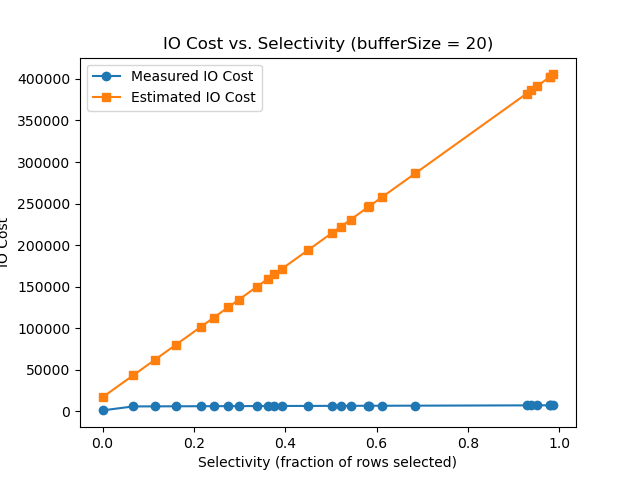
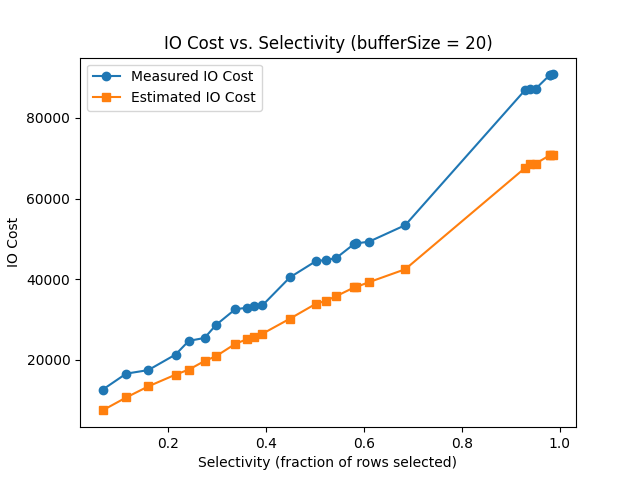
fix: fix estimated I/O

diff --git a/lab3/plot_results.py b/lab3/plot_results.py
@@ -1,17 +1,21 @@
 import pandas as pd
 import matplotlib.pyplot as plt
+from math import ceil
 
 # Read CSV file
 
-def estimated_IO_cost(moviesSelectivity, bufferSize):
+def estimated_IO_cost(moviesSelectivity, join1tuples, bufferSize):
     workedOnSelectivity = 0.111611
     moviesPages = 962
     workedOnPages = 962
     peoplePages = 2858
-    joinPages = workedOnSelectivity * workedOnPages * 49 / 4096
+    join1Pages = ceil(join1tuples * 49 / 4096) # 49 for size of MovieWorkedOnRow
     IOCost = workedOnPages + workedOnSelectivity * workedOnPages + \
-             moviesPages + moviesPages / ((bufferSize - 6) / 2) * workedOnSelectivity * workedOnPages + \
-             moviesSelectivity * moviesPages + moviesSelectivity * moviesPages / ((bufferSize - 6) / 2) * peoplePages
+             moviesSelectivity * moviesPages + moviesSelectivity * moviesPages / ((bufferSize - 6) / 2) * workedOnSelectivity * workedOnPages + \
+             join1Pages / ((bufferSize - 6) / 2) * peoplePages
+    print("WorkedOn Materialization: ", workedOnPages + workedOnSelectivity * workedOnPages)
+    print("Join1: ", moviesSelectivity * moviesPages + moviesSelectivity * moviesPages / ((bufferSize - 6) / 2) * workedOnSelectivity * workedOnPages)
+    print("Join2: ", join1Pages * moviesPages / ((bufferSize - 6) / 2) * peoplePages)
     return IOCost
 
 def plot_results(filename, bufferSize):
@@ -20,7 +24,7 @@ def plot_results(filename, bufferSize):
 
     # Plot execution times
     measured_IO_cost = df['IOCount']
-    estimated_IO_costs = [estimated_IO_cost(selectivity, bufferSize) for selectivity in df['selectivity']]
+    estimated_IO_costs = [estimated_IO_cost(selectivity, join1tuples, bufferSize) for selectivity, join1tuples in zip(df['selectivity'], df['join1tuples'])]
     plt.figure()
     plt.plot(df['selectivity'], measured_IO_cost, marker='o', label='Measured IO Cost')
     plt.plot(df['selectivity'], estimated_IO_costs, marker='s', label='Estimated IO Cost')

diff --git a/lab3/src/Commands.cpp b/lab3/src/Commands.cpp
@@ -145,7 +145,7 @@ void pre_process(bool test)
 }
 
 void run_query(const std::string &start_range, const std::string &end_range, int buffer_size,
-               bool test, double *selectivity, int *ioCount)
+               bool test, double *selectivity, int *join1Page, int *ioCount)
 {
     BufferManager bm(buffer_size);
 
@@ -231,6 +231,8 @@ void run_query(const std::string &start_range, const std::string &end_range, int
 
     std::cout << "Selectivity for movieId: " << movieSelect->getSelectivity() << "\n";
     std::cout << "Selectivity for workedOn: " << selectWorkedOn->getSelectivity() << "\n";
+    std::cout << "Join1 pages " << joinOp1->getTotalOut() << "\n";
+
     std::cout << bm.getIOCount() << " IOs in total.\n";
 
     if (selectivity) {
@@ -238,5 +240,8 @@ void run_query(const std::string &start_range, const std::string &end_range, int
     }
     if (ioCount) {
         *ioCount = bm.getIOCount();
+    }
+    if (join1Page) {
+        *join1Page = joinOp1->getTotalOut();
     }
 }

diff --git a/lab3/include/BNLJoinOp.h b/lab3/include/BNLJoinOp.h
@@ -97,6 +97,8 @@ template <typename KeyType, typename LeftRowType> class BNLJoinOp : public Opera
         remove(blockFileName.c_str());
     }
 
+    int getTotalOut() { return total_out_tuple; }
+
   private:
     BufferManager &bm;
     Operator *left;
@@ -119,6 +121,7 @@ template <typename KeyType, typename LeftRowType> class BNLJoinOp : public Opera
     std::function<KeyType(const Tuple &)> extractRightKey;
     unordered_map<std::string, int> const idx_map; // for mapping row fields to indices of the tuple
     int total_left_tuple = 0;
+    int total_out_tuple = 0;
 
     // helper function
     // build the next block from left operator
@@ -171,6 +174,7 @@ template <typename KeyType, typename LeftRowType> class BNLJoinOp : public Opera
         delete leftRow;
         result.fields.insert(result.fields.end(), lastRightTuple.fields.begin(),
                              lastRightTuple.fields.end());
+        total_out_tuple++;
         return result;
     }
 };

diff --git a/lab3/test/performance_test.cpp b/lab3/test/performance_test.cpp
@@ -1,17 +1,19 @@
 #include "../include/Commands.h"
-#include <iostream>
 #include <fstream>
+#include <iostream>
 
-int main() {
+int main()
+{
     std::ofstream out("performance_test.csv");
     int bufferSize = 20;
     double selectivity = 0.0;
+    int join1tuples = 0;
     int ioCount = 0;
-    out << "selectivity,IOCount\n";
+    out << "selectivity,join1tuples,IOCount\n";
     for (char c = 'B'; c <= 'Z'; ++c) {
         std::string start_range(1, 'A');
         std::string end_range(1, c);
-        run_query(start_range, end_range, bufferSize, true, &selectivity, &ioCount);
-        out << selectivity << "," << ioCount << "\n";
+        run_query(start_range, end_range, bufferSize, true, &selectivity, &join1tuples, &ioCount);
+        out << selectivity << "," << join1tuples << "," << ioCount << "\n";
     }
 }

diff --git a/lab3/include/Commands.h b/lab3/include/Commands.h
@@ -9,6 +9,7 @@ void pre_process(bool test = false);
 // Execute the director-lookup query with title in [start,end],
 // using buffer_size pages in your BufferManager.
 void run_query(const std::string &start_range, const std::string &end_range, int buffer_size,
-               bool test = false, double *selectivity = nullptr, int *ioCount = nullptr);
+               bool test = false, double *selectivity = nullptr, int *join1tuples = nullptr,
+               int *ioCount = nullptr);
 
 #endif // COMMANDS_H
